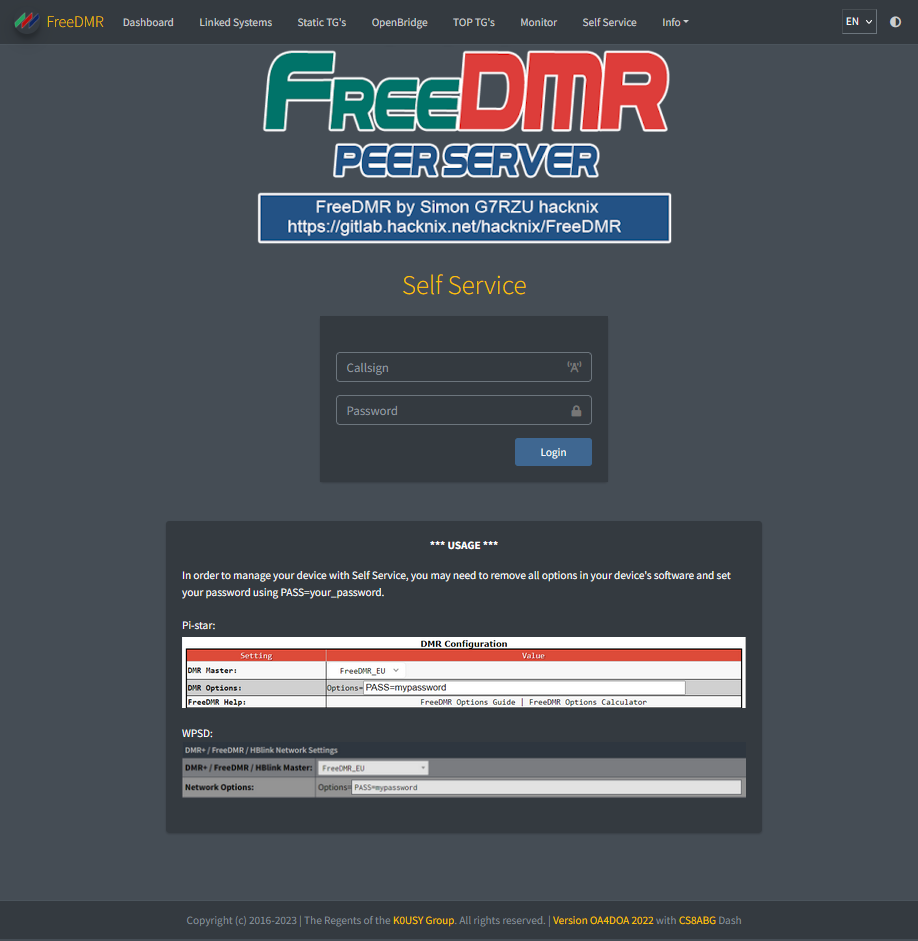
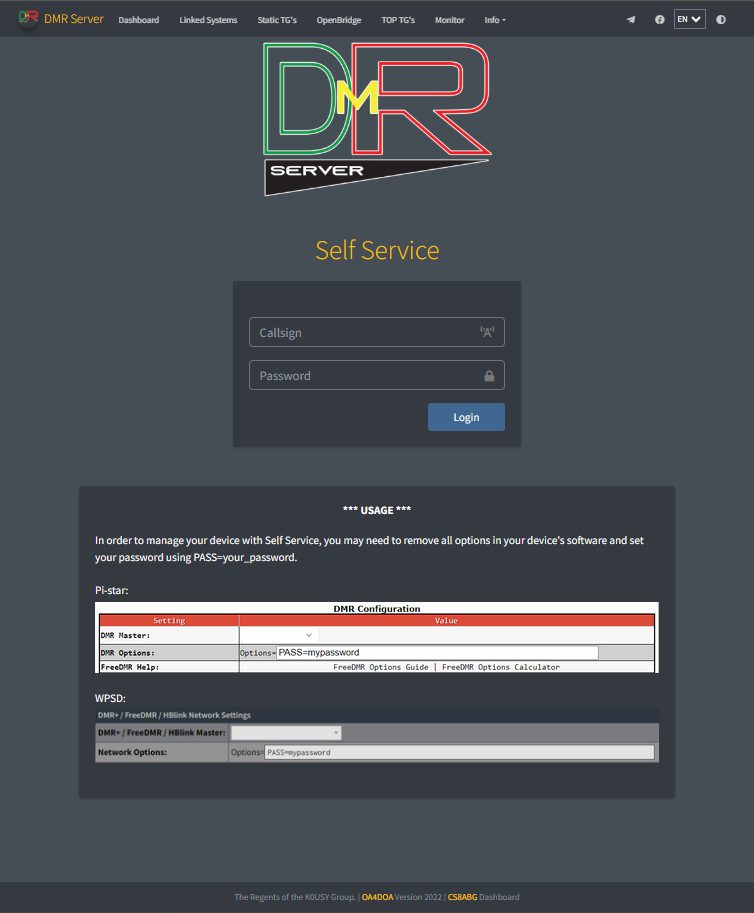
debranding

diff --git a/html/include/navbar.php b/html/include/navbar.php
@@ -1,9 +1,9 @@
 <nav class="main-header navbar navbar-expand-lg navbar-light navbar-dark text-sm">
     <div class="container text-nowrap">
         <a href="#" class="navbar-brand">
-            <img src="img/Logo_mini.png" alt="FreeDMR" class="brand-image img-circle elevation-3"
+            <img src="img/Logo_mini.png" alt="<?php echo $config['DASHBOARD']['NAVTITLE']; ?>" class="brand-image img-circle elevation-3"
                 style="opacity: .8">
-            <span class="brand-text font-weight-light">FreeDMR</span>
+            <span class="brand-text font-weight-light"><?php echo $config['DASHBOARD']['NAVTITLE']; ?></span>
         </a>
         <button class="navbar-toggler order-1" type="button" data-bs-toggle="collapse" data-bs-target="#navbarCollapse"
             aria-controls="navbarCollapse" aria-expanded="false" aria-label="Toggle navigation">
@@ -40,15 +40,21 @@
                         <li>
                             <a href="index.php?p=calc" class="dropdown-item" id="nav_calc"></a>
                         </li>
-                        <li>
-                            <a href="index.php?p=wwtg" class="dropdown-item" id="nav_tglst"></a>
-                        </li>
-                        <li>
-                            <a href="index.php?p=wwbridges" class="dropdown-item" id="nav_brdglst"></a>
-                        </li>
-                        <!-- <li>
-                            <a href="index.php?p=wwservers" class="dropdown-item" id="nav_srvlst"></a>
-                        </li> -->
+                        <?php
+                        if (isset($config['DASHBOARD']['TG_LIST'])) {
+                            echo '<li><a href="index.php?p=wwtg" class="dropdown-item" id="nav_tglst"></a></li>';
+                        }
+                        ?>
+                        <?php
+                        if (isset($config['DASHBOARD']['BRIDGES_LIST'])) {
+                            echo '<li><a href="index.php?p=wwbridges" class="dropdown-item" id="nav_brdglst"></a></li>';
+                        }
+                        ?>
+                        <?php
+                        if (isset($config['DASHBOARD']['SERVER_LIST'])) {
+                            echo '<li><a href="index.php?p=wwservers" class="dropdown-item" id="nav_srvlst"></a></li>';
+                        }
+                        ?>
                     </ul>
                 </li>
                 <?php

diff --git a/html/include/footer.php b/html/include/footer.php
@@ -1,13 +1,15 @@
+<!-- Credits: SP2ONG 2019-2022 -->
+<!-- Credits: OA4DOA 2022 -->
+<!-- THIS COPYRIGHT NOTICE MUST BE DISPLAYED AS A CONDITION OF THE LICENCE GRANT FOR THIS SOFTWARE. ALL DERIVATEIVES WORKS MUST CARRY THIS NOTICE -->
 <div class="text-center d-none d-sm-inline">
         <div><?php
         if (isset($config['DASHBOARD']['FOOTER1']) && !empty($config['DASHBOARD']['FOOTER1'])) {
             $footer1Value = $config['DASHBOARD']['FOOTER1'];
             echo $footer1Value . ' | ';
         }
-        ?>Copyright (c) 2016-2023 | The Regents of the <a
-                        target="_blank" href=http://k0usy.mystrikingly.com>K0USY Group</a>. All rights reserved. | <a
+        ?>The Regents of the K0USY Group. | <a
                         title="FDMR Monitor OA4DOA v270422" target="_blank"
-                        href="https://github.com/yuvelq/FDMR-Monitor.git">Version OA4DOA 2022</a> with <a title="CS8ABG Dash v23.10.14ss" href=https://github.com/CS8ABG/FDMR-Monitor.git>CS8ABG</a> Dash
+                        href="https://github.com/yuvelq/FDMR-Monitor.git">OA4DOA</a> Version 2022 | <a title="CS8ABG Dash v24.04ss" href=https://github.com/CS8ABG/FDMR-Monitor.git>CS8ABG</a> Dashboard
                         <?php
         if (isset($config['DASHBOARD']['FOOTER2']) && !empty($config['DASHBOARD']['FOOTER2'])) {
             $footer2Value = $config['DASHBOARD']['FOOTER2'];
@@ -16,6 +18,3 @@
         ?>
                 </div>
 </div>
-<!-- Credits: SP2ONG 2019-2022 -->
-<!-- Credits: OA4DOA 2022 -->
-<!-- THIS COPYRIGHT NOTICE MUST BE DISPLAYED AS A CONDITION OF THE LICENCE GRANT FOR THIS SOFTWARE. ALL DERIVATEIVES WORKS MUST CARRY THIS NOTICE -->

diff --git a/html/include/wwbridges.php b/html/include/wwbridges.php
@@ -18,7 +18,7 @@
                 <tbody>
                   <?php
                     // URL of the CSV file
-                    $csvFile = 'https://freedmr.cymru/talkgroups/Talkgroups_Bridges.csv';
+                    $csvFile = $config['DASHBOARD']['BRIDGES_LIST'];
 
                     // Read the CSV file
                     $fileHandle = fopen($csvFile, 'r');

diff --git a/html/include/wwtg.php b/html/include/wwtg.php
@@ -18,7 +18,7 @@
                 <tbody>
                   <?php
                     // URL of the CSV file
-                    $csvFile = 'https://freedmr.cymru/talkgroups/Talkgroups_FreeDMR.csv';
+                    $csvFile = $config['DASHBOARD']['TG_LIST'];
 
                     // Read the CSV file
                     $fileHandle = fopen($csvFile, 'r');

diff --git a/html/include/wwservers.php b/html/include/wwservers.php
@@ -20,7 +20,7 @@
                 </thead>
                 <tbody>
                   <?php
-                  $url = '';
+                  $url = $config['DASHBOARD']['SERVER_LIST'];
                   $data = file_get_contents($url);
                   $lines = explode("\n", trim($data));
                   array_shift($lines); // remove first line

diff --git a/README.md b/README.md
@@ -1,28 +1,11 @@
-**Dashboard with Self Service for FreeDMR Servers**
+**Dashboard with Self Service for FDMR Servers**
 
 ![Dashboard](./screenshot.png)
 
 ***This version has been forked from FDMR Monitor with Self Service by OA4DOA.***
 
-
-## Changes to the Dashboard
-
 **This branch has exactly the same features as the main branch, including Self Service.**
 
-*** 2023/07/29 ***
-- Added new flags.
-- Introduced a new stanza called `DASHBOARD` in the configuration file(fdmr-mon.cfg).
-- Users can now customize the dashboard settings using the `DASHBOARD` stanza.
-- Display country flag before callsign in the lastheard table.
-- Added power, latitude, longitude, and height in repeater/hotspot descriptions.
-- Improved layout: Boxes and tables now hide when no repeaters, hotspots, or bridges are present.
-
-*** 2023/70/23 ***
-- The dashboard is now fully responsive and adapts to different screen sizes and devices.
-- Users can now switch between dark and light mode for a more comfortable viewing experience.
-- The dashboard now supports multiple languages, making it more accessible to users around the world.
-- The main page of the dashboard now displays the number of active QSOs, connected repeaters, hotspots, and bridges.
-- An new options calculator has been integrated into the dashboard for easy use.
 
 ## Flags:
 ***Flags have been introduced to add visual indicators for Talkgroups (TG) or DMR IDs. To enable flags for specific TGs or DMR IDs, follow these steps:***
